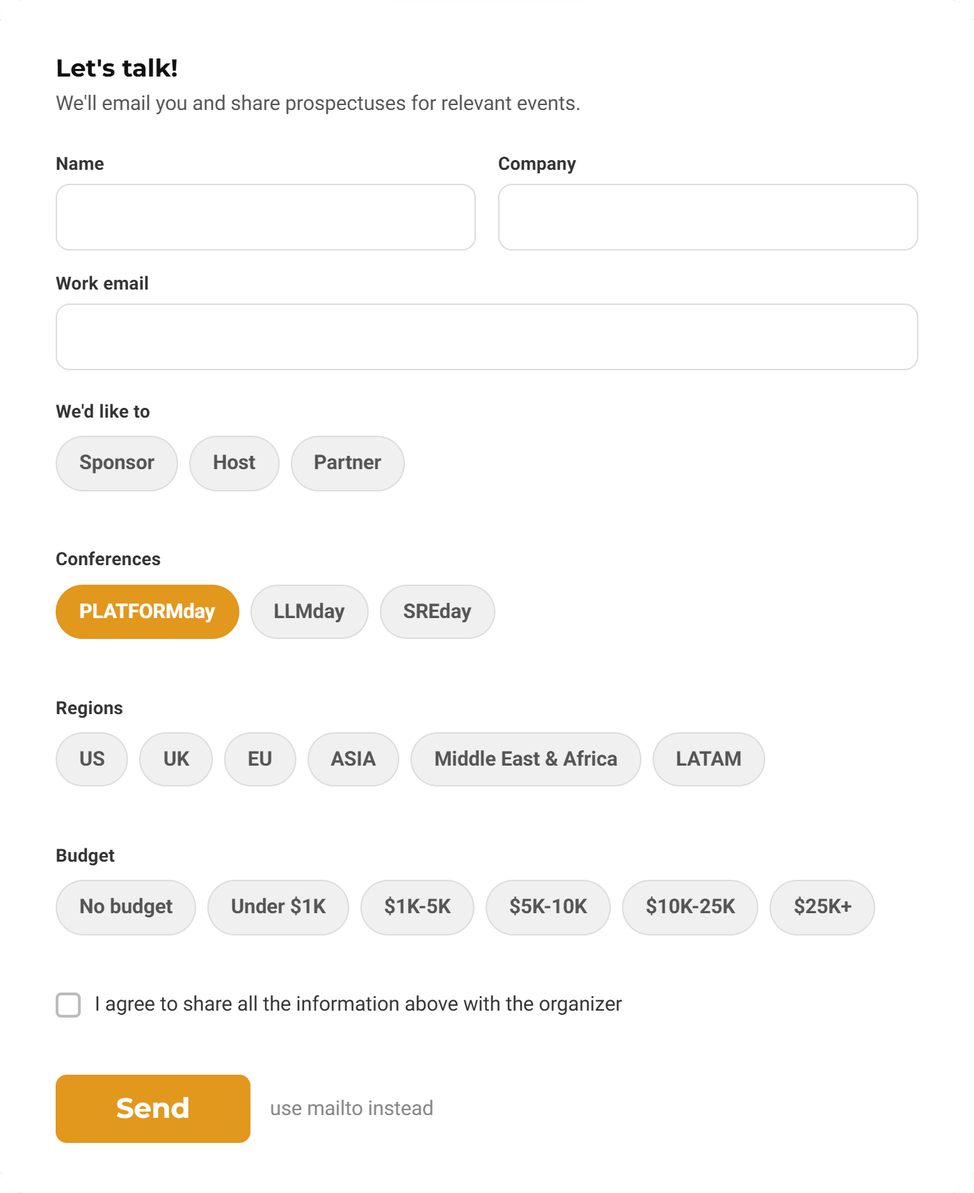
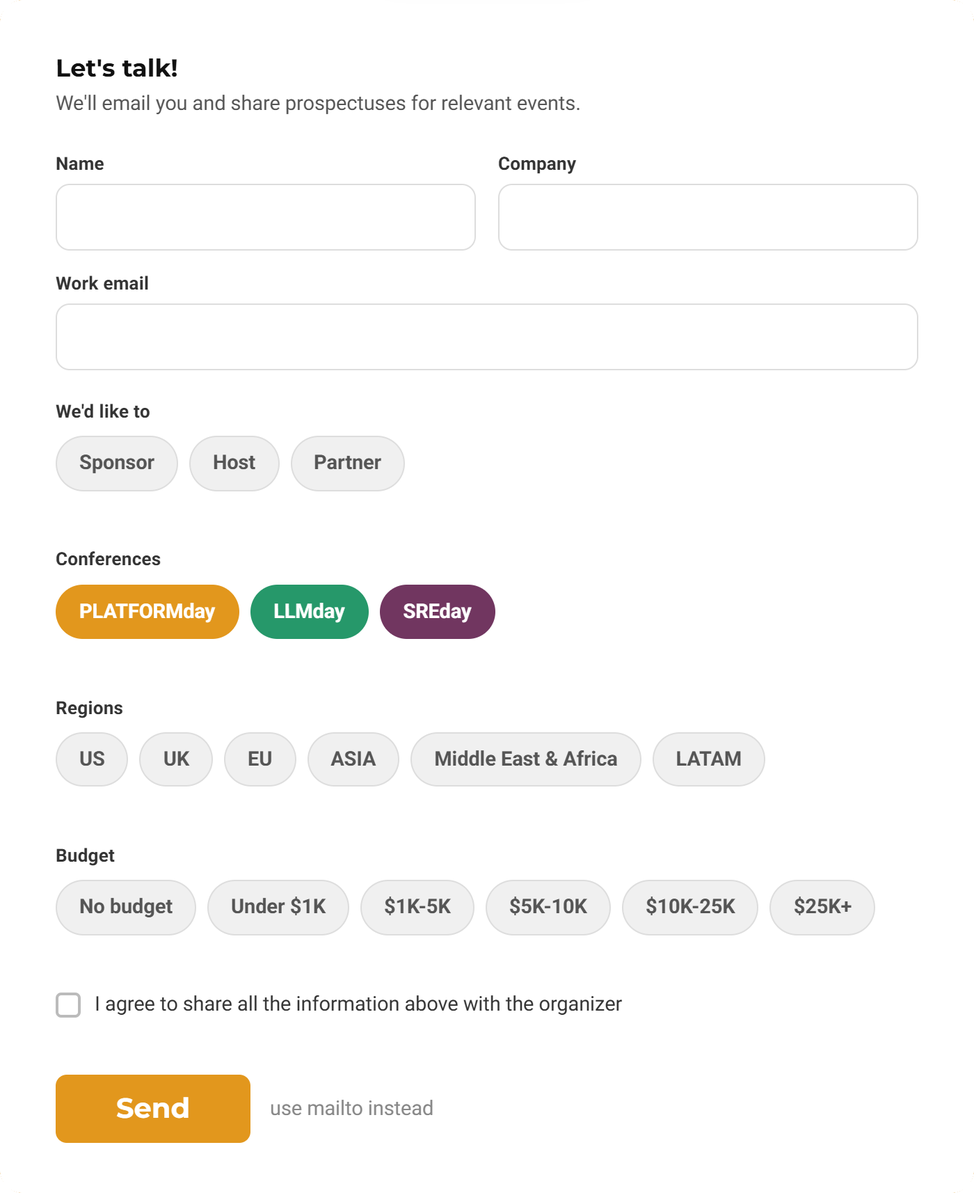
Hello deck: OTHER BRANDS / CFP.NINJA labels on the Call for papers slide; Let's chat form shot with all three brands on

Changed region(s): [[0.2457, 0.4638, 0.5221, 0.5566]]

diff --git a/2026-hamburg-q4/_templates/hello.html b/2026-hamburg-q4/_templates/hello.html
@@ -113,17 +113,29 @@
 
     /* 5 - other brands */
     .family { display: flex; gap: 110px; align-items: flex-end; }
-    .family > div { display: flex; flex-direction: column; align-items: center; width: 400px; }
+    .family .it { display: flex; flex-direction: column; align-items: center; width: 400px; }
     .family .logo { width: 330px; height: 330px; margin-bottom: 40px; }
     .family .qr-box { width: 360px; }
     .family.four { gap: 60px; }
-    .family.four > div { width: 380px; }
+    .family.four .it { width: 380px; }
     .family.four .logo { width: 280px; height: 280px; }
     .family.four .qr-box { width: 320px; }
     .family.five { gap: 34px; }
-    .family.five > div { width: 330px; }
+    .family.five .it { width: 330px; }
     .family.five .logo { width: 240px; height: 240px; }
     .family.five .qr-box { width: 280px; }
+    /* Call for papers: a label over each group (OTHER BRANDS over the brands, CFP.NINJA over the ninja), a bracket under it */
+    .family .grp { display: flex; flex-direction: column; align-items: stretch; }
+    .family .grp-items { display: flex; gap: 110px; align-items: flex-end; }
+    .family.four .grp-items { gap: 60px; }
+    .family.five .grp-items { gap: 34px; }
+    .family .grp-lbl { position: relative; text-align: center; font: 600 46px/1 'Oswald', sans-serif; letter-spacing: .08em; text-transform: uppercase;
+                       color: #fff; text-shadow: 0 0 14px var(--glow); padding-bottom: 18px; margin: 0 30px 34px; white-space: nowrap;
+                       border-bottom: 3px solid color-mix(in srgb, var(--glow) 70%, transparent); }
+    .family .grp-lbl::before, .family .grp-lbl::after { content: ''; position: absolute; bottom: -3px; width: 3px; height: 18px;
+                       background: color-mix(in srgb, var(--glow) 70%, transparent); }
+    .family .grp-lbl::before { left: 0; } .family .grp-lbl::after { right: 0; }
+    .s-family .family { margin-top: -40px; }
 
 
     /* 7 - spotlight: an open-source project's own site hero on a slide (Reliaburger: reliaburger.com's paper, ink and rust,
@@ -279,16 +291,21 @@
   </section>
   {% endif %}
 
-  {# 5 - Call for papers (Marek 2026-11-01): the other brands' logos + QRs with the community tools (hello.yaml open_source
-     without spotlight: cfp.ninja) on one slide, the tools 4th - after the first three brands; the spotlit projects get
-     slide 7 instead #}
+  {# 5 - Call for papers (Marek 2026-11-01): the other brands' logos + QRs under "Other brands", then the community tools
+     (hello.yaml open_source without spotlight: cfp.ninja) under their own name - 4th on the brand decks; the spotlit
+     projects get slide 7 instead #}
   {%- set tools = deck.open_source|rejectattr('spotlight')|list %}
-  {%- set cfp_items = deck.family[:3] + tools + deck.family[3:] %}
-  {% if cfp_items %}
+  {%- set cfp_n = deck.family|length + tools|length %}
+  {% if cfp_n %}
   <section class="slide s-family">
     <h2 class="glow h1">Call for papers</h2>
-    <div class="family{% if cfp_items|length > 4 %} five{% elif cfp_items|length > 3 %} four{% endif %}">
-      {% for b in cfp_items %}<div><img class="logo" src="{{ b.logo_src }}" alt="{{ b.name }}" loading="eager"><div class="qr-box">{{ b.qr }}</div></div>{% endfor %}
+    <div class="family{% if cfp_n > 4 %} five{% elif cfp_n > 3 %} four{% endif %}">
+      {% if deck.family %}<div class="grp"><div class="grp-lbl">Other brands</div><div class="grp-items">
+        {% for b in deck.family %}<div class="it"><img class="logo" src="{{ b.logo_src }}" alt="{{ b.name }}" loading="eager"><div class="qr-box">{{ b.qr }}</div></div>{% endfor %}
+      </div></div>{% endif %}
+      {% for o in tools %}<div class="grp"><div class="grp-lbl">{{ o.name }}</div><div class="grp-items">
+        <div class="it"><img class="logo" src="{{ o.logo_src }}" alt="{{ o.name }}" loading="eager"><div class="qr-box">{{ o.qr }}</div></div>
+      </div></div>{% endfor %}
     </div>
   </section>
   {% endif %}

diff --git a/2026-london-q4/_templates/hello.html b/2026-london-q4/_templates/hello.html
@@ -113,17 +113,29 @@
 
     /* 5 - other brands */
     .family { display: flex; gap: 110px; align-items: flex-end; }
-    .family > div { display: flex; flex-direction: column; align-items: center; width: 400px; }
+    .family .it { display: flex; flex-direction: column; align-items: center; width: 400px; }
     .family .logo { width: 330px; height: 330px; margin-bottom: 40px; }
     .family .qr-box { width: 360px; }
     .family.four { gap: 60px; }
-    .family.four > div { width: 380px; }
+    .family.four .it { width: 380px; }
     .family.four .logo { width: 280px; height: 280px; }
     .family.four .qr-box { width: 320px; }
     .family.five { gap: 34px; }
-    .family.five > div { width: 330px; }
+    .family.five .it { width: 330px; }
     .family.five .logo { width: 240px; height: 240px; }
     .family.five .qr-box { width: 280px; }
+    /* Call for papers: a label over each group (OTHER BRANDS over the brands, CFP.NINJA over the ninja), a bracket under it */
+    .family .grp { display: flex; flex-direction: column; align-items: stretch; }
+    .family .grp-items { display: flex; gap: 110px; align-items: flex-end; }
+    .family.four .grp-items { gap: 60px; }
+    .family.five .grp-items { gap: 34px; }
+    .family .grp-lbl { position: relative; text-align: center; font: 600 46px/1 'Oswald', sans-serif; letter-spacing: .08em; text-transform: uppercase;
+                       color: #fff; text-shadow: 0 0 14px var(--glow); padding-bottom: 18px; margin: 0 30px 34px; white-space: nowrap;
+                       border-bottom: 3px solid color-mix(in srgb, var(--glow) 70%, transparent); }
+    .family .grp-lbl::before, .family .grp-lbl::after { content: ''; position: absolute; bottom: -3px; width: 3px; height: 18px;
+                       background: color-mix(in srgb, var(--glow) 70%, transparent); }
+    .family .grp-lbl::before { left: 0; } .family .grp-lbl::after { right: 0; }
+    .s-family .family { margin-top: -40px; }
 
 
     /* 7 - spotlight: an open-source project's own site hero on a slide (Reliaburger: reliaburger.com's paper, ink and rust,
@@ -279,16 +291,21 @@
   </section>
   {% endif %}
 
-  {# 5 - Call for papers (Marek 2026-11-01): the other brands' logos + QRs with the community tools (hello.yaml open_source
-     without spotlight: cfp.ninja) on one slide, the tools 4th - after the first three brands; the spotlit projects get
-     slide 7 instead #}
+  {# 5 - Call for papers (Marek 2026-11-01): the other brands' logos + QRs under "Other brands", then the community tools
+     (hello.yaml open_source without spotlight: cfp.ninja) under their own name - 4th on the brand decks; the spotlit
+     projects get slide 7 instead #}
   {%- set tools = deck.open_source|rejectattr('spotlight')|list %}
-  {%- set cfp_items = deck.family[:3] + tools + deck.family[3:] %}
-  {% if cfp_items %}
+  {%- set cfp_n = deck.family|length + tools|length %}
+  {% if cfp_n %}
   <section class="slide s-family">
     <h2 class="glow h1">Call for papers</h2>
-    <div class="family{% if cfp_items|length > 4 %} five{% elif cfp_items|length > 3 %} four{% endif %}">
-      {% for b in cfp_items %}<div><img class="logo" src="{{ b.logo_src }}" alt="{{ b.name }}" loading="eager"><div class="qr-box">{{ b.qr }}</div></div>{% endfor %}
+    <div class="family{% if cfp_n > 4 %} five{% elif cfp_n > 3 %} four{% endif %}">
+      {% if deck.family %}<div class="grp"><div class="grp-lbl">Other brands</div><div class="grp-items">
+        {% for b in deck.family %}<div class="it"><img class="logo" src="{{ b.logo_src }}" alt="{{ b.name }}" loading="eager"><div class="qr-box">{{ b.qr }}</div></div>{% endfor %}
+      </div></div>{% endif %}
+      {% for o in tools %}<div class="grp"><div class="grp-lbl">{{ o.name }}</div><div class="grp-items">
+        <div class="it"><img class="logo" src="{{ o.logo_src }}" alt="{{ o.name }}" loading="eager"><div class="qr-box">{{ o.qr }}</div></div>
+      </div></div>{% endfor %}
     </div>
   </section>
   {% endif %}

diff --git a/2026-montevideo-q4/_templates/hello.html b/2026-montevideo-q4/_templates/hello.html
@@ -113,17 +113,29 @@
 
     /* 5 - other brands */
     .family { display: flex; gap: 110px; align-items: flex-end; }
-    .family > div { display: flex; flex-direction: column; align-items: center; width: 400px; }
+    .family .it { display: flex; flex-direction: column; align-items: center; width: 400px; }
     .family .logo { width: 330px; height: 330px; margin-bottom: 40px; }
     .family .qr-box { width: 360px; }
     .family.four { gap: 60px; }
-    .family.four > div { width: 380px; }
+    .family.four .it { width: 380px; }
     .family.four .logo { width: 280px; height: 280px; }
     .family.four .qr-box { width: 320px; }
     .family.five { gap: 34px; }
-    .family.five > div { width: 330px; }
+    .family.five .it { width: 330px; }
     .family.five .logo { width: 240px; height: 240px; }
     .family.five .qr-box { width: 280px; }
+    /* Call for papers: a label over each group (OTHER BRANDS over the brands, CFP.NINJA over the ninja), a bracket under it */
+    .family .grp { display: flex; flex-direction: column; align-items: stretch; }
+    .family .grp-items { display: flex; gap: 110px; align-items: flex-end; }
+    .family.four .grp-items { gap: 60px; }
+    .family.five .grp-items { gap: 34px; }
+    .family .grp-lbl { position: relative; text-align: center; font: 600 46px/1 'Oswald', sans-serif; letter-spacing: .08em; text-transform: uppercase;
+                       color: #fff; text-shadow: 0 0 14px var(--glow); padding-bottom: 18px; margin: 0 30px 34px; white-space: nowrap;
+                       border-bottom: 3px solid color-mix(in srgb, var(--glow) 70%, transparent); }
+    .family .grp-lbl::before, .family .grp-lbl::after { content: ''; position: absolute; bottom: -3px; width: 3px; height: 18px;
+                       background: color-mix(in srgb, var(--glow) 70%, transparent); }
+    .family .grp-lbl::before { left: 0; } .family .grp-lbl::after { right: 0; }
+    .s-family .family { margin-top: -40px; }
 
 
     /* 7 - spotlight: an open-source project's own site hero on a slide (Reliaburger: reliaburger.com's paper, ink and rust,
@@ -279,16 +291,21 @@
   </section>
   {% endif %}
 
-  {# 5 - Call for papers (Marek 2026-11-01): the other brands' logos + QRs with the community tools (hello.yaml open_source
-     without spotlight: cfp.ninja) on one slide, the tools 4th - after the first three brands; the spotlit projects get
-     slide 7 instead #}
+  {# 5 - Call for papers (Marek 2026-11-01): the other brands' logos + QRs under "Other brands", then the community tools
+     (hello.yaml open_source without spotlight: cfp.ninja) under their own name - 4th on the brand decks; the spotlit
+     projects get slide 7 instead #}
   {%- set tools = deck.open_source|rejectattr('spotlight')|list %}
-  {%- set cfp_items = deck.family[:3] + tools + deck.family[3:] %}
-  {% if cfp_items %}
+  {%- set cfp_n = deck.family|length + tools|length %}
+  {% if cfp_n %}
   <section class="slide s-family">
     <h2 class="glow h1">Call for papers</h2>
-    <div class="family{% if cfp_items|length > 4 %} five{% elif cfp_items|length > 3 %} four{% endif %}">
-      {% for b in cfp_items %}<div><img class="logo" src="{{ b.logo_src }}" alt="{{ b.name }}" loading="eager"><div class="qr-box">{{ b.qr }}</div></div>{% endfor %}
+    <div class="family{% if cfp_n > 4 %} five{% elif cfp_n > 3 %} four{% endif %}">
+      {% if deck.family %}<div class="grp"><div class="grp-lbl">Other brands</div><div class="grp-items">
+        {% for b in deck.family %}<div class="it"><img class="logo" src="{{ b.logo_src }}" alt="{{ b.name }}" loading="eager"><div class="qr-box">{{ b.qr }}</div></div>{% endfor %}
+      </div></div>{% endif %}
+      {% for o in tools %}<div class="grp"><div class="grp-lbl">{{ o.name }}</div><div class="grp-items">
+        <div class="it"><img class="logo" src="{{ o.logo_src }}" alt="{{ o.name }}" loading="eager"><div class="qr-box">{{ o.qr }}</div></div>
+      </div></div>{% endfor %}
     </div>
   </section>
   {% endif %}

diff --git a/2026-nyc-q4/_templates/hello.html b/2026-nyc-q4/_templates/hello.html
@@ -113,17 +113,29 @@
 
     /* 5 - other brands */
     .family { display: flex; gap: 110px; align-items: flex-end; }
-    .family > div { display: flex; flex-direction: column; align-items: center; width: 400px; }
+    .family .it { display: flex; flex-direction: column; align-items: center; width: 400px; }
     .family .logo { width: 330px; height: 330px; margin-bottom: 40px; }
     .family .qr-box { width: 360px; }
     .family.four { gap: 60px; }
-    .family.four > div { width: 380px; }
+    .family.four .it { width: 380px; }
     .family.four .logo { width: 280px; height: 280px; }
     .family.four .qr-box { width: 320px; }
     .family.five { gap: 34px; }
-    .family.five > div { width: 330px; }
+    .family.five .it { width: 330px; }
     .family.five .logo { width: 240px; height: 240px; }
     .family.five .qr-box { width: 280px; }
+    /* Call for papers: a label over each group (OTHER BRANDS over the brands, CFP.NINJA over the ninja), a bracket under it */
+    .family .grp { display: flex; flex-direction: column; align-items: stretch; }
+    .family .grp-items { display: flex; gap: 110px; align-items: flex-end; }
+    .family.four .grp-items { gap: 60px; }
+    .family.five .grp-items { gap: 34px; }
+    .family .grp-lbl { position: relative; text-align: center; font: 600 46px/1 'Oswald', sans-serif; letter-spacing: .08em; text-transform: uppercase;
+                       color: #fff; text-shadow: 0 0 14px var(--glow); padding-bottom: 18px; margin: 0 30px 34px; white-space: nowrap;
+                       border-bottom: 3px solid color-mix(in srgb, var(--glow) 70%, transparent); }
+    .family .grp-lbl::before, .family .grp-lbl::after { content: ''; position: absolute; bottom: -3px; width: 3px; height: 18px;
+                       background: color-mix(in srgb, var(--glow) 70%, transparent); }
+    .family .grp-lbl::before { left: 0; } .family .grp-lbl::after { right: 0; }
+    .s-family .family { margin-top: -40px; }
 
 
     /* 7 - spotlight: an open-source project's own site hero on a slide (Reliaburger: reliaburger.com's paper, ink and rust,
@@ -279,16 +291,21 @@
   </section>
   {% endif %}
 
-  {# 5 - Call for papers (Marek 2026-11-01): the other brands' logos + QRs with the community tools (hello.yaml open_source
-     without spotlight: cfp.ninja) on one slide, the tools 4th - after the first three brands; the spotlit projects get
-     slide 7 instead #}
+  {# 5 - Call for papers (Marek 2026-11-01): the other brands' logos + QRs under "Other brands", then the community tools
+     (hello.yaml open_source without spotlight: cfp.ninja) under their own name - 4th on the brand decks; the spotlit
+     projects get slide 7 instead #}
   {%- set tools = deck.open_source|rejectattr('spotlight')|list %}
-  {%- set cfp_items = deck.family[:3] + tools + deck.family[3:] %}
-  {% if cfp_items %}
+  {%- set cfp_n = deck.family|length + tools|length %}
+  {% if cfp_n %}
   <section class="slide s-family">
     <h2 class="glow h1">Call for papers</h2>
-    <div class="family{% if cfp_items|length > 4 %} five{% elif cfp_items|length > 3 %} four{% endif %}">
-      {% for b in cfp_items %}<div><img class="logo" src="{{ b.logo_src }}" alt="{{ b.name }}" loading="eager"><div class="qr-box">{{ b.qr }}</div></div>{% endfor %}
+    <div class="family{% if cfp_n > 4 %} five{% elif cfp_n > 3 %} four{% endif %}">
+      {% if deck.family %}<div class="grp"><div class="grp-lbl">Other brands</div><div class="grp-items">
+        {% for b in deck.family %}<div class="it"><img class="logo" src="{{ b.logo_src }}" alt="{{ b.name }}" loading="eager"><div class="qr-box">{{ b.qr }}</div></div>{% endfor %}
+      </div></div>{% endif %}
+      {% for o in tools %}<div class="grp"><div class="grp-lbl">{{ o.name }}</div><div class="grp-items">
+        <div class="it"><img class="logo" src="{{ o.logo_src }}" alt="{{ o.name }}" loading="eager"><div class="qr-box">{{ o.qr }}</div></div>
+      </div></div>{% endfor %}
     </div>
   </section>
   {% endif %}

diff --git a/2026-tel-aviv-q4/_templates/hello.html b/2026-tel-aviv-q4/_templates/hello.html
@@ -113,17 +113,29 @@
 
     /* 5 - other brands */
     .family { display: flex; gap: 110px; align-items: flex-end; }
-    .family > div { display: flex; flex-direction: column; align-items: center; width: 400px; }
+    .family .it { display: flex; flex-direction: column; align-items: center; width: 400px; }
     .family .logo { width: 330px; height: 330px; margin-bottom: 40px; }
     .family .qr-box { width: 360px; }
     .family.four { gap: 60px; }
-    .family.four > div { width: 380px; }
+    .family.four .it { width: 380px; }
     .family.four .logo { width: 280px; height: 280px; }
     .family.four .qr-box { width: 320px; }
     .family.five { gap: 34px; }
-    .family.five > div { width: 330px; }
+    .family.five .it { width: 330px; }
     .family.five .logo { width: 240px; height: 240px; }
     .family.five .qr-box { width: 280px; }
+    /* Call for papers: a label over each group (OTHER BRANDS over the brands, CFP.NINJA over the ninja), a bracket under it */
+    .family .grp { display: flex; flex-direction: column; align-items: stretch; }
+    .family .grp-items { display: flex; gap: 110px; align-items: flex-end; }
+    .family.four .grp-items { gap: 60px; }
+    .family.five .grp-items { gap: 34px; }
+    .family .grp-lbl { position: relative; text-align: center; font: 600 46px/1 'Oswald', sans-serif; letter-spacing: .08em; text-transform: uppercase;
+                       color: #fff; text-shadow: 0 0 14px var(--glow); padding-bottom: 18px; margin: 0 30px 34px; white-space: nowrap;
+                       border-bottom: 3px solid color-mix(in srgb, var(--glow) 70%, transparent); }
+    .family .grp-lbl::before, .family .grp-lbl::after { content: ''; position: absolute; bottom: -3px; width: 3px; height: 18px;
+                       background: color-mix(in srgb, var(--glow) 70%, transparent); }
+    .family .grp-lbl::before { left: 0; } .family .grp-lbl::after { right: 0; }
+    .s-family .family { margin-top: -40px; }
 
 
     /* 7 - spotlight: an open-source project's own site hero on a slide (Reliaburger: reliaburger.com's paper, ink and rust,
@@ -279,16 +291,21 @@
   </section>
   {% endif %}
 
-  {# 5 - Call for papers (Marek 2026-11-01): the other brands' logos + QRs with the community tools (hello.yaml open_source
-     without spotlight: cfp.ninja) on one slide, the tools 4th - after the first three brands; the spotlit projects get
-     slide 7 instead #}
+  {# 5 - Call for papers (Marek 2026-11-01): the other brands' logos + QRs under "Other brands", then the community tools
+     (hello.yaml open_source without spotlight: cfp.ninja) under their own name - 4th on the brand decks; the spotlit
+     projects get slide 7 instead #}
   {%- set tools = deck.open_source|rejectattr('spotlight')|list %}
-  {%- set cfp_items = deck.family[:3] + tools + deck.family[3:] %}
-  {% if cfp_items %}
+  {%- set cfp_n = deck.family|length + tools|length %}
+  {% if cfp_n %}
   <section class="slide s-family">
     <h2 class="glow h1">Call for papers</h2>
-    <div class="family{% if cfp_items|length > 4 %} five{% elif cfp_items|length > 3 %} four{% endif %}">
-      {% for b in cfp_items %}<div><img class="logo" src="{{ b.logo_src }}" alt="{{ b.name }}" loading="eager"><div class="qr-box">{{ b.qr }}</div></div>{% endfor %}
+    <div class="family{% if cfp_n > 4 %} five{% elif cfp_n > 3 %} four{% endif %}">
+      {% if deck.family %}<div class="grp"><div class="grp-lbl">Other brands</div><div class="grp-items">
+        {% for b in deck.family %}<div class="it"><img class="logo" src="{{ b.logo_src }}" alt="{{ b.name }}" loading="eager"><div class="qr-box">{{ b.qr }}</div></div>{% endfor %}
+      </div></div>{% endif %}
+      {% for o in tools %}<div class="grp"><div class="grp-lbl">{{ o.name }}</div><div class="grp-items">
+        <div class="it"><img class="logo" src="{{ o.logo_src }}" alt="{{ o.name }}" loading="eager"><div class="qr-box">{{ o.qr }}</div></div>
+      </div></div>{% endfor %}
     </div>
   </section>
   {% endif %}

diff --git a/_event_template/_templates/hello.html b/_event_template/_templates/hello.html
@@ -113,17 +113,29 @@
 
     /* 5 - other brands */
     .family { display: flex; gap: 110px; align-items: flex-end; }
-    .family > div { display: flex; flex-direction: column; align-items: center; width: 400px; }
+    .family .it { display: flex; flex-direction: column; align-items: center; width: 400px; }
     .family .logo { width: 330px; height: 330px; margin-bottom: 40px; }
     .family .qr-box { width: 360px; }
     .family.four { gap: 60px; }
-    .family.four > div { width: 380px; }
+    .family.four .it { width: 380px; }
     .family.four .logo { width: 280px; height: 280px; }
     .family.four .qr-box { width: 320px; }
     .family.five { gap: 34px; }
-    .family.five > div { width: 330px; }
+    .family.five .it { width: 330px; }
     .family.five .logo { width: 240px; height: 240px; }
     .family.five .qr-box { width: 280px; }
+    /* Call for papers: a label over each group (OTHER BRANDS over the brands, CFP.NINJA over the ninja), a bracket under it */
+    .family .grp { display: flex; flex-direction: column; align-items: stretch; }
+    .family .grp-items { display: flex; gap: 110px; align-items: flex-end; }
+    .family.four .grp-items { gap: 60px; }
+    .family.five .grp-items { gap: 34px; }
+    .family .grp-lbl { position: relative; text-align: center; font: 600 46px/1 'Oswald', sans-serif; letter-spacing: .08em; text-transform: uppercase;
+                       color: #fff; text-shadow: 0 0 14px var(--glow); padding-bottom: 18px; margin: 0 30px 34px; white-space: nowrap;
+                       border-bottom: 3px solid color-mix(in srgb, var(--glow) 70%, transparent); }
+    .family .grp-lbl::before, .family .grp-lbl::after { content: ''; position: absolute; bottom: -3px; width: 3px; height: 18px;
+                       background: color-mix(in srgb, var(--glow) 70%, transparent); }
+    .family .grp-lbl::before { left: 0; } .family .grp-lbl::after { right: 0; }
+    .s-family .family { margin-top: -40px; }
 
 
     /* 7 - spotlight: an open-source project's own site hero on a slide (Reliaburger: reliaburger.com's paper, ink and rust,
@@ -279,16 +291,21 @@
   </section>
   {% endif %}
 
-  {# 5 - Call for papers (Marek 2026-11-01): the other brands' logos + QRs with the community tools (hello.yaml open_source
-     without spotlight: cfp.ninja) on one slide, the tools 4th - after the first three brands; the spotlit projects get
-     slide 7 instead #}
+  {# 5 - Call for papers (Marek 2026-11-01): the other brands' logos + QRs under "Other brands", then the community tools
+     (hello.yaml open_source without spotlight: cfp.ninja) under their own name - 4th on the brand decks; the spotlit
+     projects get slide 7 instead #}
   {%- set tools = deck.open_source|rejectattr('spotlight')|list %}
-  {%- set cfp_items = deck.family[:3] + tools + deck.family[3:] %}
-  {% if cfp_items %}
+  {%- set cfp_n = deck.family|length + tools|length %}
+  {% if cfp_n %}
   <section class="slide s-family">
     <h2 class="glow h1">Call for papers</h2>
-    <div class="family{% if cfp_items|length > 4 %} five{% elif cfp_items|length > 3 %} four{% endif %}">
-      {% for b in cfp_items %}<div><img class="logo" src="{{ b.logo_src }}" alt="{{ b.name }}" loading="eager"><div class="qr-box">{{ b.qr }}</div></div>{% endfor %}
+    <div class="family{% if cfp_n > 4 %} five{% elif cfp_n > 3 %} four{% endif %}">
+      {% if deck.family %}<div class="grp"><div class="grp-lbl">Other brands</div><div class="grp-items">
+        {% for b in deck.family %}<div class="it"><img class="logo" src="{{ b.logo_src }}" alt="{{ b.name }}" loading="eager"><div class="qr-box">{{ b.qr }}</div></div>{% endfor %}
+      </div></div>{% endif %}
+      {% for o in tools %}<div class="grp"><div class="grp-lbl">{{ o.name }}</div><div class="grp-items">
+        <div class="it"><img class="logo" src="{{ o.logo_src }}" alt="{{ o.name }}" loading="eager"><div class="qr-box">{{ o.qr }}</div></div>
+      </div></div>{% endfor %}
     </div>
   </section>
   {% endif %}

diff --git a/hello-deck/tools/shoot_lead_form.py b/hello-deck/tools/shoot_lead_form.py
@@ -1,5 +1,5 @@
-"""hello-deck/chat/form-<brand>.png - the empty "Let's talk!" lead form (Sponsor / Host / Partner) as a visitor sees it on
-the brand's home page, for the deck's "Let's chat!" slide (Marek 2026-10-31: "show how easy it is to start a conversation").
+"""hello-deck/chat/form-<brand>.png - the empty "Let's talk!" lead form (Sponsor / Host / Partner) from
+the brand's home page, every conference chip on, for the deck's "Let's chat!" slide (Marek 2026-10-31: "show how easy it is to start a conversation").
 Run by hand when the form changes, then copy hello-deck/chat/ into the other three repos (the folder is identical):
 
     pip install websocket-client pillow
@@ -57,13 +57,16 @@ def shoot(tab, key, url):
         print('%s: no lead form at %s' % (key, url))
         return
     time.sleep(2)
-    # unrolled, no transition, every field empty (the page brand's chip stays pre-checked, as visitors see it)
+    # unrolled, no transition, every field empty, all three brand chips on
     tab.js('''(function () {
       var p = document.getElementById('lead-panel');
       if (window.leadOpen) leadOpen(); else if (!p.classList.contains('open') && window.leadToggle) leadToggle();
       p.style.transition = 'none'; p.style.maxHeight = 'none'; p.style.height = 'auto'; p.style.opacity = '1';
       p.classList.add('open');
       document.querySelectorAll('#lead-form input[type=text], #lead-form input[type=email]').forEach(function (i) { i.value = ''; i.blur(); });
+      document.querySelectorAll('.lead-group.is-invalid').forEach(function (g) { g.classList.remove('is-invalid'); });
+      // every conference chip on (Marek 2026-11-01: "have all 3 brands highlighted")
+      document.querySelectorAll('#lead-form input[name=brands]').forEach(function (i) { i.checked = true; i.dispatchEvent(new Event('change', {bubbles: true})); });
       document.querySelectorAll('.lead-group.is-invalid').forEach(function (g) { g.classList.remove('is-invalid'); });
       p.scrollIntoView({block: 'center'});
     })()''')
